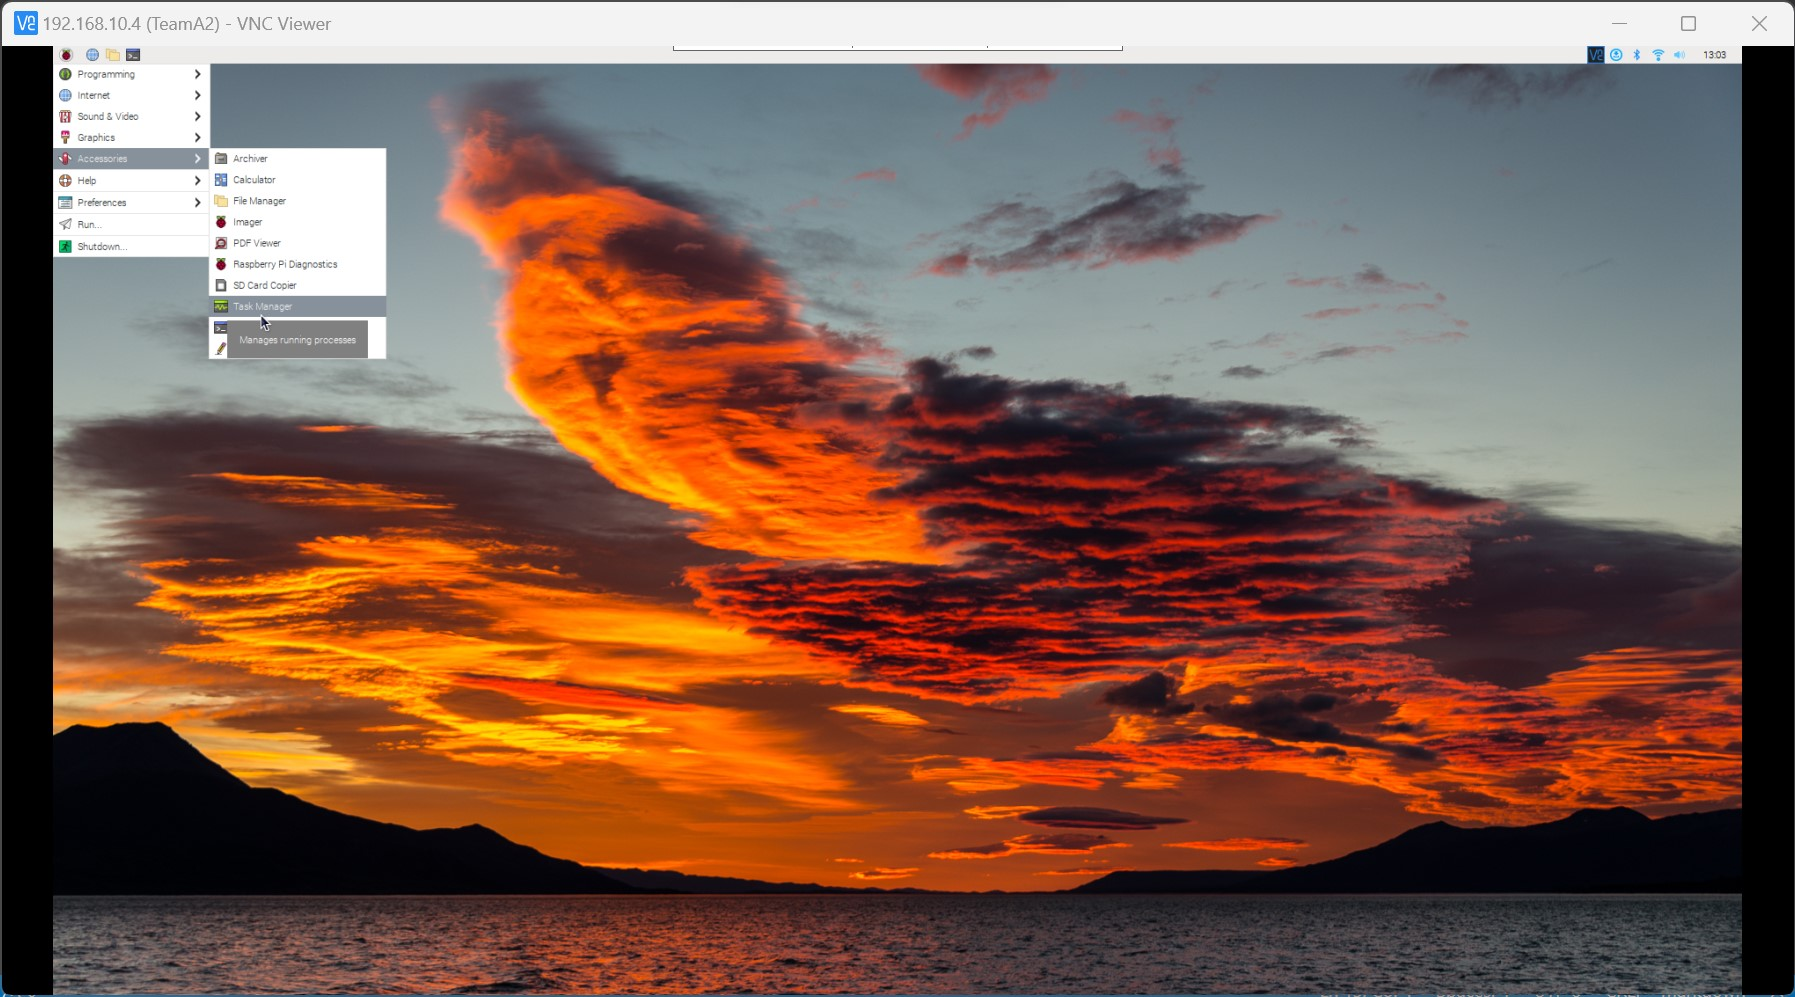
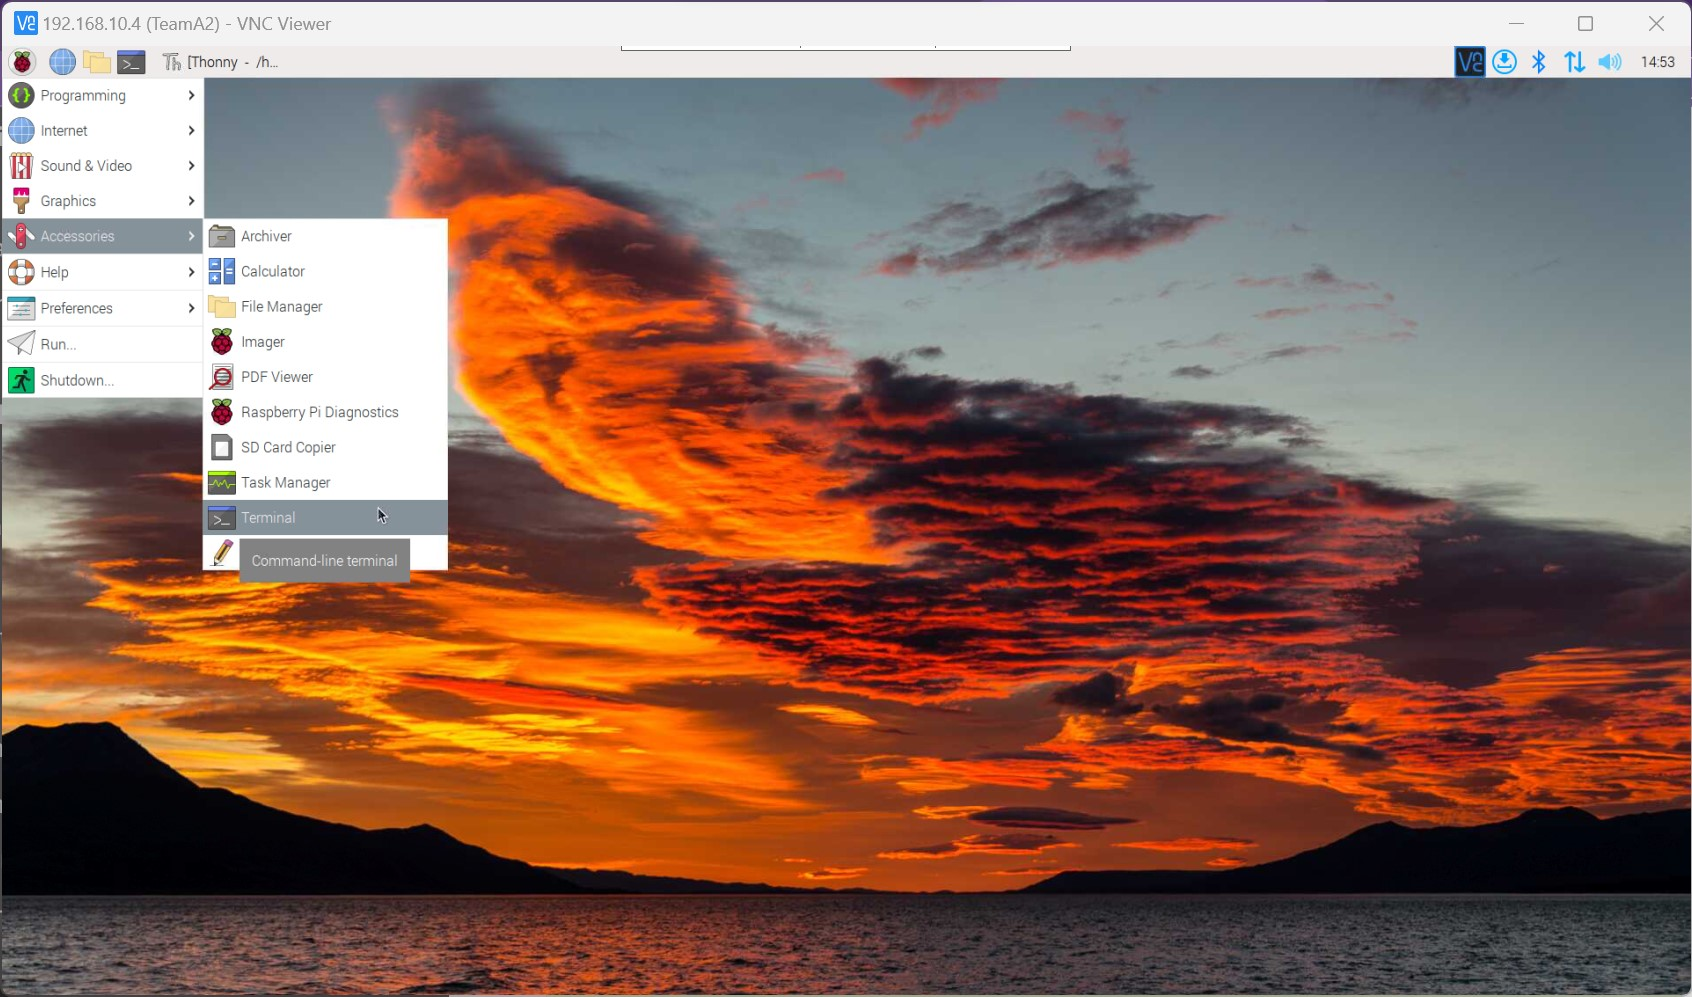
adding in pictures

diff --git a/README.md b/README.md
@@ -1,6 +1,161 @@
 # EGL314-TeamA-ProjectSpace
 
 
+
+                   
+ # Bill Of Material (BOM)
+
+ 1. 1x Novation Launchpad Mk2
+ 2. 2x Raspberry Pi Raspi 4 Model B
+ 3. 1x Short Throw Projector Sony VPL-SW630
+ 4. 1x Media Server Lenovo ThinkStation P920
+ 5. 2x Ceiling Speakers Extron FF 220T
+ 6. 1x OEM Screen
+ 7. 1x Audio Amplifier Extron XPA 1002
+ 8. 1x Laptop HP Zbook 15 G5
+ 9. 1x HDMI Extender TX Kramer PT-571
+ 10. 1x HDMI Extender RX Kramer PT-572+
+ 11. 1x Wireless Router Netgear
+
+ # Required Software and Licenses
+
+ 1. Christie Pandora Box
+ 2. Widget Designer
+ 3. Server Manager 
+ 4. Thonny Python IDE
+ 5. Dongles for Pandora license
+
+ # Network Settings
+Login to router
+</br>
+username: admin
+</br>
+Login to router by going to a web browser and entering address 192.168.1.1 under URL section, then sign in with:\
+username: admin\
+password: password
+![Alt text](<imgs/Router login.jpg>)
+Name: TeamA
+</br>
+Password: mtswifipwd
+![Alt text](<imgs/Router wireless setup.jpg>)
+Router IP address set to 192.168.10.1
+![Alt text](<imgs/Router LAN setup.jpg>)
+ # How To Start
+## Video Hardware Setup
+![Alt Text](imgs/VideoHardSetup.jpg)
+The video setup for our project consists of a ultra-short throw projector mounted onto a truss, then secured with a safety cable.
+![Alt Text](imgs/ProjectorMount.jpg)
+The projector is shooting to a OEM Screen, which is placed on the floor.
+![Alt Text](imgs/OemScreen.jpg)
+Video is sent to the projector via HDMI Extender, sending signal from a Media Server.
+![Alt Text](imgs/MediaServer.jpg)
+Hdmi Extenders
+![Alt Text](imgs/Transmitter.jpg)
+
+## Audio Hardware Setup
+![Alt Text](imgs/CeilingSpk.jpg)
+The audio setup for our project consists of an audio amplifier receiving input from a laptop via a 3.5mm cable sending to two ceiling speakers
+![Alt Text](imgs/3.5mm.jpg)
+Amplifier Receiving input from laptop
+![Alt Text](imgs/Amplifier.jpg)
+Speaker cable out from amplifier sending to ceiling speakers
+![Alt Text](imgs/SpkToAmp.jpg)
+
+## Video Software
+For video we are sending content from Pandoras Box to a media server, connected via a LAN cable and controlled by Server Manager, while also being controlled with Widget designer.
+
+Start by Opening your network settings by right-clicking your wifi logo at the bottom right of your screen
+<br>![Alt Text](imgs/Pandora%20Imgs/Open%20network%20settings.png)<br>
+Then, go to Change adapter options
+<br>![Alt Text](imgs/Pandora%20Imgs/Change%20Adapter%20Settings.png)<br>
+Right click Ethernet and open up properties
+<br>![Alt Text](imgs/Pandora%20Imgs/Ethernet.png)<br>
+Then open Internet Protocol Version 4 (TCP/IPv4) properties and set your ip to 192.168.10.10, subnet mask to 255.255.255.0
+<br>![Alt Text](imgs/Pandora%20Imgs/Ipv4.png)<br>
+Now, Open pandora and start a new project
+<br>![Alt Text](imgs/Pandora%20Imgs/NewfilePB.jpg)<br>
+Name your project accordingly
+<br>![Alt Text](imgs/Pandora%20Imgs/Rename.jpg)<br>
+Then, right click your project folder at the left side of the app, and add a new folder. This will be the content folder
+<br>![Alt Text](imgs/Pandora%20Imgs/AddFolder.png)<br>
+To find content, use the navigation tool in the center of the screen, the directory for the downloads folder is (C:/Users/"username"/Downloads), bring in content by dragging content in from the navigation to the previously created content folder.
+<br>![Alt Text](imgs/Pandora%20Imgs/FileDir.png)<br>
+Next, we drag in content from our content to folder directly to our layers.
+<br>![Alt Text](imgs/Pandora%20Imgs/Addimg2Layer.png)<br>
+Then, we position our items in the property editor
+<br>![Alt Text](imgs/Pandora%20Imgs/Positioning.png)<br>
+Next, go to Configuration>Network and check your domain.
+<br>![Alt Text](imgs/Pandora%20Imgs/CheckdomainPB.png)<br>
+Open Server Manager and check if your Media server is connected, if it's not, check your connection between the laptop and the Media Server through your LAN cable. Else, Right click your server in the application and click connect VNC
+<br>![Alt Text](imgs/Pandora%20Imgs/ConnectVNC.png)<br>
+Next, Open Pandoras Box in the Media Server and make sure the domain number matches the one in Pandoras Box in your laptop,
+<br>![Alt Text](imgs/Pandora%20Imgs/Open%20Pandora.png)<br>
+Open Widget Designer and create a new file.
+<br>![Alt Text](imgs/Pandora%20Imgs/FileNew.png)<br>
+Add buttons by going to Widgets>Buttons and clicking CustomScript, this will set you in state where you can only add buttons
+<br>![Alt Text](imgs/Pandora%20Imgs/Addbutton.png)<br>
+Button adding state
+<br>![Alt Text](imgs/Pandora%20Imgs/make%20button.png)<br>
+To exit the button adding state, click the icon selected in the image at the top of the application
+<br>![Alt Text](imgs/Pandora%20Imgs/Esc.jpg)<br>
+At the end, you should have 40 buttons in total
+<br>![Alt Text](imgs/Pandora%20Imgs/Final%20Layout.jpg)<br>
+Double-click the button and change its type to toggle inside Settings and add in codes
+<br>![Alt Text](imgs/Pandora%20Imgs/doubleclick.png)<br>
+
+## The codes to use for buttons are:
+
+### **To toggle the layer's opacity for Player 1**
+Note that X means Device number and Y means layer number
+
+onClick script:
+
+(the portion after changing the opacity is for audio playback)
+```
+DeviceSetParam(X,Y,"Opacity",255)
+DeviceSetParam(X,Y,"Playback Transport","Play")
+WDWait
+(0.5)DeviceSetParam(X,Y,"Playback Transport","Stop")
+```
+
+onRelease script:
+```
+DeviceSetParam(X,Y,"Opacity",0)
+```
+Master script to turn opacity down and release pressed state
+```
+DeviceSetParam(X,Y,"Opacity",0)
+WDCustomScriptSetState(3,"Released")
+```
+
+Next, navigate to Connections>Remoting at the top of the application
+<br>![Alt Text](imgs/Pandora%20Imgs/Remoting.jpg)<br>
+Inside the Remote input control, set your TCP port to 5005 and Enable TCP connection.
+<br>![Alt Text](imgs/Pandora%20Imgs/TCPSet.jpg)<br>
+
+
+## Raspberry Pi
+Download and install raspbian
+![Alt text](<imgs/Raspi Setup/Raspi Setup 1.jpg>)
+Choose the operating system as Raspberry Pi OS (32-bit)
+![Alt text](<imgs/Raspi Setup/Raspi Setup OS.jpg>)
+Choose the storage device, being the SD card that will be used to store data for the Raspberry Pi
+![Alt text](<imgs/Raspi Setup/Raspi Setup Storage.jpg>)
+Pick advanced options, enable hostname and SSH, then enter a hostname of your choosing, in this case, its TeamA2
+![Alt text](<imgs/Raspi Setup/Raspi Setup Advanced 1.jpg>)
+Enable set username and password then create a username and password, in this senario username being TeamA2, password being mtswifipwd
+![Alt text](<imgs/Raspi Setup/Raspi Setup Advanced 2.jpg>)
+Enable Configure wireless LAN and enter the SSID and password according to the SSID and password according what was configured in the netgear router
+![Alt text](<imgs/Raspi Setup/Raspi Setup configure wireless LAN.jpg>)
+Select write
+![Alt text](<imgs/Raspi Setup/Raspi Setup 2.jpg>)
+Note that the SD card will be formatted and everything in it will be erased, do not use a SD card will has data in it
+![Alt text](<imgs/Raspi Setup/Raspi Setup Write Confirmation.jpg>)
+Wait for raspbian to fishing writing
+![Alt text](<imgs/Raspi Setup/Raspi Setup Writing.jpg>)
+Now you can remove the SD card from your laptop and insert it into the raspberry pi
+![Alt text](<imgs/Raspi Setup/Raspi Setup Finished writing.jpg>)
+
 ## Installing neccesary Libraries.
 
 1. Library to use.
@@ -18,9 +173,9 @@ if you are using python verion 3 then use 'pip3' instead of pip
 'pip install python-rtmidi'
 
 4. if installing the library happens to fail, try the following steps.
- - Open Raspberry Pi Configuration 
+ - Open Raspberry Pi Configuration
  - go to Localisation
- - Set Locale,Timezone and Wireless LAN Country to your country.
+ - Set Timezone and Wireless LAN Country to your country.
 
 
 ## TicTacToe with TCP
@@ -308,161 +463,4 @@ while True:
                 DwinCheck(player)
                 if btn_state.count(1) != count :
                     count +=1
-                    
- 
 ```
-                   
- # Bill Of Material (BOM)
-
- 1. 1x Novation Launchpad Mk2
- 2. 2x Raspberry Pi Raspi 4 Model B
- 3. 1x Short Throw Projector Sony VPL-SW630
- 4. 1x Media Server Lenovo ThinkStation P920
- 5. 2x Ceiling Speakers Extron FF 220T
- 6. 1x OEM Screen
- 7. 1x Audio Amplifier Extron XPA 1002
- 8. 1x Laptop HP Zbook 15 G5
- 9. 1x HDMI Extender TX Kramer PT-571
- 10. 1x HDMI Extender RX Kramer PT-572+
- 11. 1x Wireless Router Netgear
-
- # Required Software and Licenses
-
- 1. Christie Pandora Box
- 2. Widget Designer
- 3. Server Manager 
- 4. Thonny Python IDE
- 5. Dongles for Pandora license
-
- # Network Settings
-
-
-Login to router
-</br>
-username: admin
-</br>
-Login to router by going to a web browser and entering address 192.168.1.1 under URL section, then sign in with:\
-username: admin\
-password: password
-![Alt text](<imgs/Router login.jpg>)
-Name: TeamA
-</br>
-Password: mtswifipwd
-![Alt text](<imgs/Router wireless setup.jpg>)
-Router IP address set to 192.168.10.1
-![Alt text](<imgs/Router LAN setup.jpg>)
- # How To Start
-## Video Hardware Setup
-![Alt Text](imgs/VideoHardSetup.jpg)
-The video setup for our project consists of a ultra-short throw projector mounted onto a truss, then secured with a safety cable.
-![Alt Text](imgs/ProjectorMount.jpg)
-The projector is shooting to a OEM Screen, which is placed on the floor.
-![Alt Text](imgs/OemScreen.jpg)
-Video is sent to the projector via HDMI Extender, sending signal from a Media Server.
-![Alt Text](imgs/MediaServer.jpg)
-Hdmi Extenders
-![Alt Text](imgs/Transmitter.jpg)
-
-## Audio Hardware Setup
-![Alt Text](imgs/CeilingSpk.jpg)
-The audio setup for our project consists of an audio amplifier receiving input from a laptop via a 3.5mm cable sending to two ceiling speakers
-![Alt Text](imgs/3.5mm.jpg)
-Amplifier Receiving input from laptop
-![Alt Text](imgs/Amplifier.jpg)
-Speaker cable out from amplifier sending to ceiling speakers
-![Alt Text](imgs/SpkToAmp.jpg)
-
-## Video Software
-For video we are sending content from Pandoras Box to a media server, connected via a LAN cable and controlled by Server Manager, while also being controlled with Widget designer.
-
-Start by Opening your network settings by right-clicking your wifi logo at the bottom right of your screen
-<br>![Alt Text](imgs/Pandora%20Imgs/Open%20network%20settings.png)<br>
-Then, go to Change adapter options
-<br>![Alt Text](imgs/Pandora%20Imgs/Change%20Adapter%20Settings.png)<br>
-Right click Ethernet and open up properties
-<br>![Alt Text](imgs/Pandora%20Imgs/Ethernet.png)<br>
-Then open Internet Protocol Version 4 (TCP/IPv4) properties and set your ip to 192.168.10.10, subnet mask to 255.255.255.0
-<br>![Alt Text](imgs/Pandora%20Imgs/Ipv4.png)<br>
-Now, Open pandora and start a new project
-<br>![Alt Text](imgs/Pandora%20Imgs/NewfilePB.jpg)<br>
-Name your project accordingly
-<br>![Alt Text](imgs/Pandora%20Imgs/Rename.jpg)<br>
-Then, right click your project folder at the left side of the app, and add a new folder. This will be the content folder
-<br>![Alt Text](imgs/Pandora%20Imgs/AddFolder.png)<br>
-To find content, use the navigation tool in the center of the screen, the directory for the downloads folder is (C:/Users/"username"/Downloads), bring in content by dragging content in from the navigation to the previously created content folder.
-<br>![Alt Text](imgs/Pandora%20Imgs/FileDir.png)<br>
-Next, we drag in content from our content to folder directly to our layers.
-<br>![Alt Text](imgs/Pandora%20Imgs/Addimg2Layer.png)<br>
-Then, we position our items in the property editor
-<br>![Alt Text](imgs/Pandora%20Imgs/Positioning.png)<br>
-Next, go to Configuration>Network and check your domain.
-<br>![Alt Text](imgs/Pandora%20Imgs/CheckdomainPB.png)<br>
-Open Server Manager and check if your Media server is connected, if it's not, check your connection between the laptop and the Media Server through your LAN cable. Else, Right click your server in the application and click connect VNC
-<br>![Alt Text](imgs/Pandora%20Imgs/ConnectVNC.png)<br>
-Next, Open Pandoras Box in the Media Server and make sure the domain number matches the one in Pandoras Box in your laptop,
-<br>![Alt Text](imgs/Pandora%20Imgs/Open%20Pandora.png)<br>
-Open Widget Designer and create a new file.
-<br>![Alt Text](imgs/Pandora%20Imgs/FileNew.png)<br>
-Add buttons by going to Widgets>Buttons and clicking CustomScript, this will set you in state where you can only add buttons
-<br>![Alt Text](imgs/Pandora%20Imgs/Addbutton.png)<br>
-Button adding state
-<br>![Alt Text](imgs/Pandora%20Imgs/make%20button.png)<br>
-To exit the button adding state, click the icon selected in the image at the top of the application
-<br>![Alt Text](imgs/Pandora%20Imgs/Esc.jpg)<br>
-At the end, you should have 40 buttons in total
-<br>![Alt Text](imgs/Pandora%20Imgs/Final%20Layout.jpg)<br>
-Double-click the button and change its type to toggle inside Settings and add in codes
-<br>![Alt Text](imgs/Pandora%20Imgs/doubleclick.png)<br>
-
-## The codes to use for buttons are:
-
-### **To toggle the layer's opacity for Player 1**
-Note that X means Device number and Y means layer number
-
-onClick script:
-
-(the portion after changing the opacity is for audio playback)
-```
-DeviceSetParam(X,Y,"Opacity",255)
-DeviceSetParam(X,Y,"Playback Transport","Play")
-WDWait
-(0.5)DeviceSetParam(X,Y,"Playback Transport","Stop")
-```
-
-onRelease script:
-```
-DeviceSetParam(X,Y,"Opacity",0)
-```
-Master script to turn opacity down and release pressed state
-```
-DeviceSetParam(X,Y,"Opacity",0)
-WDCustomScriptSetState(3,"Released")
-```
-
-Next, navigate to Connections>Remoting at the top of the application
-<br>![Alt Text](imgs/Pandora%20Imgs/Remoting.jpg)<br>
-Inside the Remote input control, set your TCP port to 5005 and Enable TCP connection.
-<br>![Alt Text](imgs/Pandora%20Imgs/TCPSet.jpg)<br>
-
-
-## Raspberry Pi
-Download and install raspbian
-![Alt text](<imgs/Raspi Setup/Raspi Setup 1.jpg>)
-Choose the operating system as Raspberry Pi OS (32-bit)
-![Alt text](<imgs/Raspi Setup/Raspi Setup OS.jpg>)
-Choose the storage device, being the SD card that will be used to store data for the Raspberry Pi
-![Alt text](<imgs/Raspi Setup/Raspi Setup Storage.jpg>)
-Pick advanced options, enable hostname and SSH, then enter a hostname of your choosing, in this case, its TeamA2
-![Alt text](<imgs/Raspi Setup/Raspi Setup Advanced 1.jpg>)
-Enable set username and password then create a username and password, in this senario username being TeamA2, password being mtswifipwd
-![Alt text](<imgs/Raspi Setup/Raspi Setup Advanced 2.jpg>)
-Enable Configure wireless LAN and enter the SSID and password according to the SSID and password according what was configured in the netgear router
-![Alt text](<imgs/Raspi Setup/Raspi Setup configure wireless LAN.jpg>)
-Select write
-![Alt text](<imgs/Raspi Setup/Raspi Setup 2.jpg>)
-Note that the SD card will be formatted and everything in it will be erased, do not use a SD card will has data in it
-![Alt text](<imgs/Raspi Setup/Raspi Setup Write Confirmation.jpg>)
-Wait for raspbian to fishing writing
-![Alt text](<imgs/Raspi Setup/Raspi Setup Writing.jpg>)
-Now you can remove the SD card from your laptop and insert it into the raspberry pi
-![Alt text](<imgs/Raspi Setup/Raspi Setup Finished writing.jpg>)
